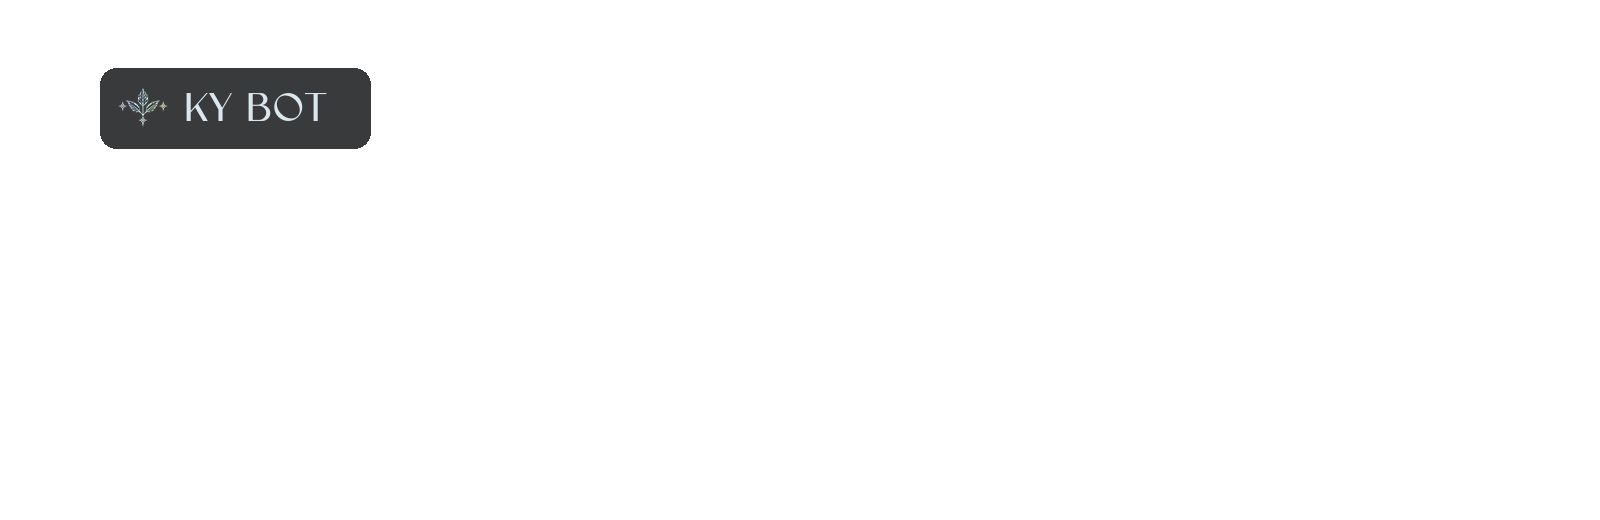
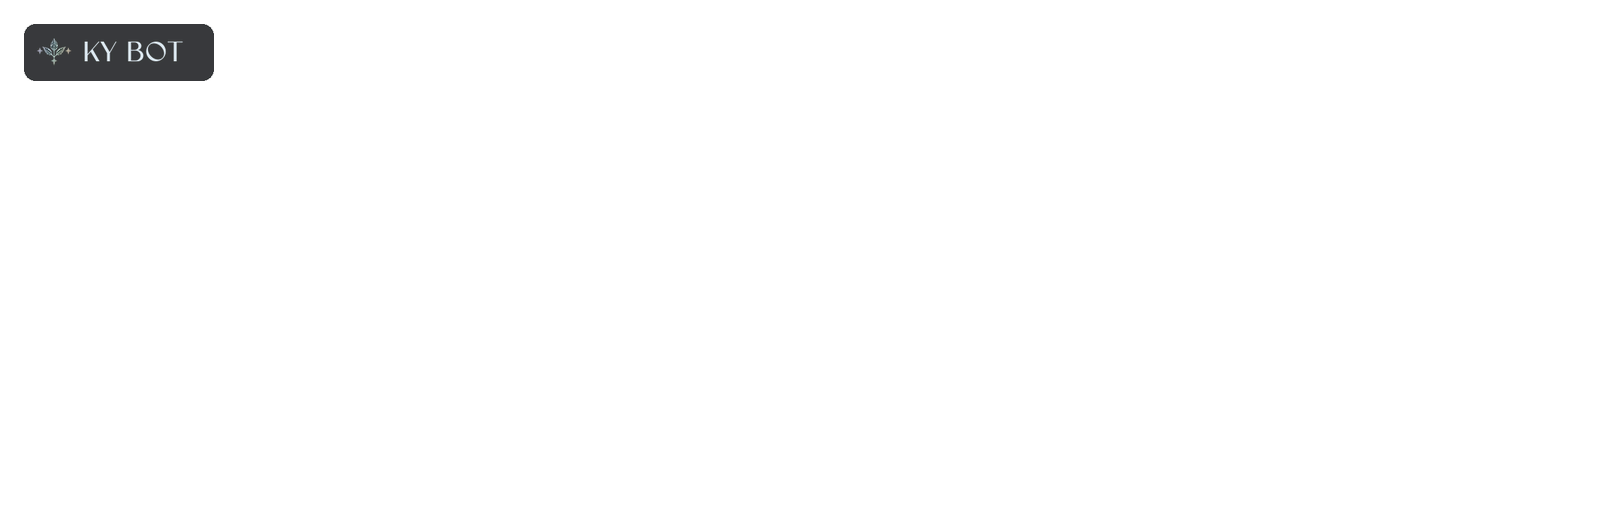
updated headers and footers

Changed region(s): [[0.0, 0.0308, 0.25, 0.3077]]

diff --git a/src/ky_bot/views/settings.py b/src/ky_bot/views/settings.py
@@ -47,12 +47,16 @@ class SettingsView(discord.ui.LayoutView):
     ) -> None:
         self.section, self.picker = section, picker
         self.clear_items()
-        panel = discord.ui.Container(accent_colour=0xB89656)
+        panel = discord.ui.Container(accent_colour=0xC4AD78)
         panel.add_item(discord.ui.MediaGallery(discord.MediaGalleryItem(
             HEADER_URL, description="KY BOT • COMMAND CENTER",
         )))
-        title = {"overview": "Server settings", "welcome": "Welcome", "logging": "Logging"}[section]
-        panel.add_item(discord.ui.TextDisplay(f"### {title}"))
+        title = {
+            "overview": "SERVER CONFIGURATION",
+            "welcome": "SERVER CONFIGURATION / WELCOME",
+            "logging": "SERVER CONFIGURATION / LOGGING",
+        }[section]
+        panel.add_item(discord.ui.TextDisplay(f"-# {title}"))
         if notice:
             panel.add_item(discord.ui.TextDisplay(notice))
 
@@ -70,19 +74,17 @@ class SettingsView(discord.ui.LayoutView):
         if section == "overview":
             status = "Enabled" if self.settings.welcome_channel_id else "Disabled"
             row(
-                f"**WELCOME** · {status}\nGreet new members with your own message.",
-                self.navigation("Configure", "welcome"),
+                f"### Welcome experience\n-# Personal greetings for new members · {status}",
+                self.navigation("Manage", "welcome"),
             )
             separator()
             row(
-                "**LOGGING** · Coming soon\nChoose where future moderation logs will go.",
-                self.navigation("Configure", "logging"),
+                "### Server activity\n-# Moderation logs · Coming soon",
+                self.navigation("Manage", "logging"),
             )
         elif section == "welcome":
-            panel.add_item(discord.ui.TextDisplay("Customize how new members are welcomed."))
-            separator()
             row(
-                f"**WELCOME CHANNEL**\n{channel(self.settings.welcome_channel_id)}",
+                f"### Destination\n{channel(self.settings.welcome_channel_id)}",
                 self.navigation("Choose channel", section, picker=True),
             )
             if picker:
@@ -97,7 +99,7 @@ class SettingsView(discord.ui.LayoutView):
             # Escape user-authored Markdown in the configuration display only.
             text = discord.utils.escape_markdown(self.settings.welcome_message)
             self.edit_welcome = self.button("Edit message", self.open_welcome_editor)
-            row(f"**WELCOME MESSAGE**\n{text}", self.edit_welcome)
+            row(f"### Welcome message\n{text}", self.edit_welcome)
             panel.add_item(discord.ui.TextDisplay(
                 "-# Use {member} to mention the new member and {server} for the server name."
             ))
@@ -105,18 +107,18 @@ class SettingsView(discord.ui.LayoutView):
             self.disable_welcome = self.button("Disable", self.turn_off_welcomes)
             self.disable_welcome.disabled = self.settings.welcome_channel_id is None
             row(
-                "**WELCOME DELIVERY**\n"
+                "### Delivery\n-# "
                 + ("Enabled — sent when someone joins." if self.settings.welcome_channel_id
                    else "Disabled — choose a channel to enable."),
                 self.disable_welcome,
             )
         else:
             panel.add_item(discord.ui.TextDisplay(
-                "Prepare a channel for future moderation logs. Logging is not active yet."
+                "-# Coming soon · Save a destination for future moderation logs."
             ))
             separator()
             row(
-                f"**LOG CHANNEL**\n{channel(self.settings.log_channel_id)}",
+                f"### Destination\n{channel(self.settings.log_channel_id)}",
                 self.navigation("Choose channel", section, picker=True),
             )
             if picker:
@@ -129,7 +131,7 @@ class SettingsView(discord.ui.LayoutView):
             separator()
             self.clear_channel = self.button("Clear channel", self.clear_log_channel)
             self.clear_channel.disabled = self.settings.log_channel_id is None
-            row("**SAVED CHANNEL**\nRemove the saved logging destination.", self.clear_channel)
+            row("### Saved destination\n-# Remove the selected channel.", self.clear_channel)
 
         separator()
         controls = discord.ui.ActionRow()
@@ -137,13 +139,13 @@ class SettingsView(discord.ui.LayoutView):
             controls.add_item(self.navigation("Back", "overview"))
         controls.add_item(self.button("Refresh", self.reload_settings))
         controls.add_item(self.button("Close", self.close_menu))
-        panel.add_item(controls)
         panel.add_item(discord.ui.TextDisplay(
-            "-# Administrators only · Changes save automatically · Expires after 3 minutes"
+            "-# Private admin controls · Saved automatically · 3-minute session"
         ))
         panel.add_item(discord.ui.MediaGallery(discord.MediaGalleryItem(
             "attachment://ky_settings_footer.png", description="KY BOT floral wreath footer",
         )))
+        panel.add_item(controls)
         self.add_item(panel)
 
     async def interaction_check(self, interaction: discord.Interaction) -> bool:

diff --git a/tools/build_headers.py b/tools/build_headers.py
@@ -54,10 +54,12 @@ def main():
         text.putalpha(lettering)
         brand.alpha_composite(text, (184, 108 - lettering.height // 2))
         brand.save(PACKAGE / f"{style}_brand.png")
-        brand.save(OUTPUT / "layers" / f"ky_header_{style}_brand.png")
+        overlay(style, framed=False).save(OUTPUT / "layers" / f"ky_header_{style}_brand.png")
         for framed in (True, False):
             name = f"ky_header_{style}_{'framed' if framed else 'borderless'}_template.png"
             overlay(style, framed=framed).save(OUTPUT / "templates" / name)
+            compact_name = name.replace("_template.png", "_compact_template.png")
+            overlay(style, framed=framed, height=280).save(OUTPUT / "templates" / compact_name)
     for design, finish in FINISHES.items():
         bg = (BASE / "masters/approved-materials" / f"{design}_background.png").read_bytes()
         for framed in (True, False):
@@ -65,28 +67,36 @@ def main():
             name = f"ky_header_{design}{'' if framed else '_borderless'}.png"
             (OUTPUT / "designs" / name).write_bytes(content)
             (PACKAGE / name).write_bytes(content)
+            compact = render_header(bg, finish, framed=framed, height=280)
+            compact_name = name.replace(".png", "_compact.png")
+            (OUTPUT / "designs" / compact_name).write_bytes(compact)
+            (PACKAGE / compact_name).write_bytes(compact)
     manifest = {
         "canvas": list(SIZE),
         "brand": "KY BOT",
         "slogan": None,
         "brand_position": "Top left; icon before KY BOT",
-        "brand_bounds": {"framed": [72, 68, 343, 149], "borderless": [24, 24, 295, 105]},
+        "brand_bounds": {"framed": [72, 68, 262, 125], "borderless": [24, 24, 214, 81]},
+        "brand_plate": "Keep the pale plate for dark silver; dark plate for gold and silver neon",
         "brand_font": "Vonca-Medium.otf",
         "title_font": "Vonca-Bold.otf",
-        "title_size": {"default": 108, "minimum": 48, "maximum_width": 1280},
+        "title_size": {"default": 108, "minimum": 40, "maximum_width": 1280},
+        "height_range": [240, 800],
+        "compact_height": 280,
         "designs": FINISHES,
         "styles": list(STYLES),
         "templates": ["framed", "borderless"],
         "background": "User supplied; cover crop with configurable focal point",
         "layers": ["background", "optional_frame", "top_left_brand"],
         "title_treatment": (
-            "Centered VONCA Bold heading with a thin rule above and below; no title means no rules"
+            "Horizontally and vertically centered VONCA Bold with matching metallic finish "
+            "and a thin rule above and below; no title means no rules"
         ),
         "font_binaries_included": False,
     }
     (OUTPUT / "manifest.json").write_text(json.dumps(manifest, indent=2) + "\n")
 
-    print("Built five header designs, matching borderless versions and six slogan-free templates.")
+    print("Built standard and compact versions of five designs and six reusable templates.")
 
 
 if __name__ == "__main__":

diff --git a/tests/test_headers.py b/tests/test_headers.py
@@ -26,7 +26,7 @@ def test_uploaded_background_and_corner_brand_are_preserved(style, framed):
     assert image.getpixel((0, 0))[3] == 0
     assert image.getpixel((800, 260)) == (255, 0, 0, 255)
     assert image.getpixel((800, 440)) == (255, 0, 0, 255)
-    brand_area = (72, 68, 343, 149) if framed else (24, 24, 295, 105)
+    brand_area = (72, 68, 262, 125) if framed else (24, 24, 214, 81)
     assert overlay(style, framed=framed).crop(brand_area).getbbox() is not None
     if not framed:
         assert overlay(style, framed=False).getbbox() == brand_area
@@ -35,9 +35,10 @@ def test_uploaded_background_and_corner_brand_are_preserved(style, framed):
 
 @pytest.mark.parametrize("name", DESIGNS)
 @pytest.mark.parametrize("framed", (True, False))
-def test_all_presets_are_available_with_and_without_frame(name, framed):
-    image = Image.open(io.BytesIO(design_file(name, framed=framed)))
-    assert image.size == SIZE
+@pytest.mark.parametrize("compact", (True, False))
+def test_all_presets_are_available_with_and_without_frame(name, framed, compact):
+    image = Image.open(io.BytesIO(design_file(name, framed=framed, compact=compact)))
+    assert image.size == (1600, 280 if compact else 520)
 
 
 def test_custom_crop_and_invalid_backgrounds():
@@ -67,9 +68,10 @@ def test_large_bold_title_has_two_rules_and_no_clipping(style):
     untitled = Image.open(io.BytesIO(render_header(base, style)))
     mask = text_mask("COMMAND CENTER", role="display", size=108, min_size=48, max_width=1280)
     assert mask.height > 50
-    assert 252 + mask.height + 28 < SIZE[1] - 24
+    y = (SIZE[1] - mask.height) // 2
+    assert y + mask.height + 28 < SIZE[1] - 24
     left = (SIZE[0] - mask.width) // 2
-    top, bottom = 224, 252 + mask.height + 28
+    top, bottom = y - 28, y + mask.height + 28
     rule_x = left + 40
     assert titled.getpixel((rule_x, top)) == titled.getpixel((rule_x, bottom))
     assert titled.getpixel((rule_x, top)) != untitled.getpixel((rule_x, top))
@@ -122,7 +124,7 @@ def test_custom_height_preserves_brand_and_transparent_corners(height, framed):
     assert image.size == (1600, height)
     assert image.getpixel((0, 0))[3] == 0
     assert image.getpixel((1599, height - 1))[3] == 0
-    brand_area = (72, 68, 343, 149) if framed else (24, 24, 295, 105)
+    brand_area = (72, 68, 262, 125) if framed else (24, 24, 214, 81)
     original = overlay("gold", framed=framed).crop(brand_area)
     adjusted = overlay("gold", framed=framed, height=height).crop(brand_area)
     assert original.tobytes() == adjusted.tobytes()
@@ -153,5 +155,5 @@ def test_title_fits_custom_height(height, framed):
         "COMMAND CENTER", role="display", size=min(108, round(height * 108 / 520)),
         min_size=40, max_width=1280,
     )
-    y = max(155 if framed else 120, (height - mask.height) // 2)
+    y = (height - mask.height) // 2
     assert y + mask.height + min(28, round(height * 28 / 520)) < height - 24

diff --git a/src/ky_bot/services/headers.py b/src/ky_bot/services/headers.py
@@ -6,7 +6,7 @@ from pathlib import Path
 
 from PIL import Image, ImageChops, ImageDraw, ImageFilter, ImageOps
 
-from ky_bot.services.footers import FooterError, read_upload
+from ky_bot.services.footers import FooterError, metal, read_upload
 from ky_bot.services.typography import TypographyError, text_mask
 
 SIZE = (1600, 520)
@@ -44,11 +44,13 @@ def overlay(style: str, *, framed: bool = True, height: int = SIZE[1]) -> Image.
             )
             resized.alpha_composite(frame.crop((0, 410, SIZE[0], 520)), (0, height - 110))
             frame = resized
-        frame.alpha_composite(result.crop((100, 68, 371, 149)), (72, 68))
+        brand = result.crop((100, 68, 371, 149)).resize((190, 57), Image.Resampling.LANCZOS)
+        frame.alpha_composite(brand, (72, 68))
         return frame
     # Borderless layouts can place the mark closer to the actual image corner.
     corner = Image.new("RGBA", (SIZE[0], height))
-    corner.alpha_composite(result.crop((100, 68, 371, 149)), (24, 24))
+    brand = result.crop((100, 68, 371, 149)).resize((190, 57), Image.Resampling.LANCZOS)
+    corner.alpha_composite(brand, (24, 24))
     return corner
 
 
@@ -94,7 +96,7 @@ def render_header(
             raise FooterError(str(exc)) from None
         # Center the title between two fine rules, following the KY BOT logo treatment.
         x = (SIZE[0] - mask.width) // 2
-        y = 252 if height == 520 else max(155 if framed else 120, (height - mask.height) // 2)
+        y = (height - mask.height) // 2
         rule_width = max(240, mask.width)
         rule_left = (SIZE[0] - rule_width) // 2
         gap = min(28, round(height * 28 / 520))
@@ -114,19 +116,20 @@ def render_header(
         pen = ImageDraw.Draw(image)
         for rule_y in (top, bottom):
             pen.line((rule_left, rule_y, rule_left + rule_width, rule_y), fill=colour, width=3)
-        text = Image.new("RGBA", mask.size, colour)
-        text.putalpha(mask)
+        text = metal(mask, style)
         image.alpha_composite(text, (x, y))
     output = io.BytesIO()
     image.save(output, format="PNG")
     return output.getvalue()
 
 
-def design_file(name: str, *, framed: bool = True) -> bytes:
+def design_file(name: str, *, framed: bool = True, compact: bool = False) -> bytes:
     """Reusable preset for embedding with attachment://ky_header.png."""
     if name not in DESIGNS:
         raise FooterError("Choose a design from the KY BOT header collection.")
     suffix = "" if framed else "_borderless"
+    if compact:
+        suffix += "_compact"
     return (
         files("ky_bot").joinpath("assets", "header", f"ky_header_{name}{suffix}.png").read_bytes()
     )

diff --git a/tools/build_command_center_header.py b/tools/build_command_center_header.py
@@ -8,6 +8,7 @@ from PIL import Image, ImageDraw, ImageOps
 ROOT = Path(__file__).resolve().parents[1]
 sys.path.insert(0, str(ROOT / "src"))
 
+from ky_bot.services.footers import metal  # noqa: E402
 from ky_bot.services.headers import background_mask, overlay  # noqa: E402
 from ky_bot.services.typography import text_mask  # noqa: E402
 
@@ -22,13 +23,10 @@ def build_header(*, framed: bool = False) -> Image.Image:
     image.alpha_composite(Image.new("RGBA", image.size, (255, 255, 255, 32)))
     if framed:
         image.putalpha(background_mask(framed=True, height=280))
-        image.alpha_composite(overlay("dark_silver", framed=True, height=280))
-    else:
-        image.alpha_composite(overlay("dark_silver", framed=False).crop((0, 0, 1600, 110)))
+    image.alpha_composite(overlay("dark_silver", framed=framed, height=280))
     mask = text_mask("COMMAND CENTER", role="display", size=80, max_width=1280)
-    x, y = (1600 - mask.width) // 2, 140
-    title = Image.new("RGBA", mask.size, "#292724")
-    title.putalpha(mask)
+    x, y = (image.width - mask.width) // 2, (image.height - mask.height) // 2
+    title = metal(mask, "dark_silver")
     image.alpha_composite(title, (x, y))
     draw = ImageDraw.Draw(image)
     for line_y in (y - 18, y + mask.height + 18):
@@ -37,7 +35,15 @@ def build_header(*, framed: bool = False) -> Image.Image:
 
 
 def main() -> None:
-    build_header(framed=True).save(ROOT / "src/ky_bot/assets/header/ky_header_command_center.png")
+    header = build_header(framed=True)
+    header = header.crop(header.getchannel("A").getbbox())
+    header = ImageOps.contain(header, (1600, 280), Image.Resampling.LANCZOS)
+    header.save(ROOT / "src/ky_bot/assets/header/ky_header_command_center.png")
+    footer = Image.open(
+        ROOT / "assets/branding/footers/standardized/ky_footer_floral_wreath_centered_framed.png"
+    ).convert("RGBA")
+    footer = footer.crop(footer.getchannel("A").getbbox())
+    footer.save(ROOT / "src/ky_bot/assets/footer/ky_footer_floral_wreath_centered_framed.png")
 
 
 if __name__ == "__main__":

diff --git a/assets/branding/previews/render_settings_label.py b/assets/branding/previews/render_settings_label.py
@@ -1,0 +1,21 @@
+from pathlib import Path
+from PIL import Image
+from ky_bot.services.typography import text_mask
+root = Path.cwd()
+out = root / 'assets/branding/previews'
+out.mkdir(exist_ok=True)
+mask = text_mask('SERVER SETTINGS', role='display', size=44, min_size=44, max_width=1500)
+lettering = Image.new('RGBA', mask.size, '#D8BB78')
+lettering.putalpha(mask)
+label = Image.new('RGBA', (1600, 80))
+label.alpha_composite(lettering, (0, (80-mask.height)//2))
+label.save(out / 'server_settings_vonca_gold.png')
+preview = Image.new('RGBA', (1680, 650), '#2b2d38')
+header = Image.open(root / 'src/ky_bot/assets/header/ky_header_command_center.png').convert('RGBA')
+header = header.resize((1600, round(header.height * 1600 / header.width)))
+preview.alpha_composite(header, (40, 24))
+preview.alpha_composite(label, (40, 310))
+footer = Image.open(root / 'src/ky_bot/assets/footer/ky_footer_floral_wreath_centered_framed.png')
+footer = footer.convert('RGBA').resize((1600, round(footer.height * 1600 / footer.width)))
+preview.alpha_composite(footer, (40, 420))
+preview.save(out / 'server_settings_vonca_gold_preview.png')

diff --git a/README.md b/README.md
@@ -7,7 +7,7 @@ KY BOT is a sophisticated, all-in-one Discord bot created around simplicity, ver
 
 Administrators can use `/settings` to open a private Command Center panel. The branded
 **COMMAND CENTER** header appears at the top, with Welcome and Logging rows beneath it.
-Each row has an inline **Configure** button beside its description. **Choose channel** opens
+Each row has an inline **Manage** button beside its description. **Choose channel** opens
 Discord's channel picker;
 no channel IDs are needed. Each server saves its own configuration across restarts.
 
@@ -287,6 +287,11 @@ All headers are slogan-free. The small icon and KY BOT mark sit at the top left,
 inset on framed headers and closer to the corner on borderless headers. Optional titles use
 large VONCA Bold lettering with a thin matching line above and below.
 
+All designs and reusable templates share the smaller 190 × 57 corner logo and its readability
+plate. Optional titles are centered horizontally and vertically and use the same metallic
+finish as the border. Compact 1600 × 280 exports accompany the standard 1600 × 520 assets;
+compact filenames include `_compact`. The floral wreath Command Center keeps its pale logo plate.
+
 Final designs are in `assets/branding/headers/designs/`. Reusable transparent PNG templates
 are in `assets/branding/headers/templates/`, with separate frame and brand source layers in
 `assets/branding/headers/layers/`. The manifest documents the layout. No preview sheets or
@@ -311,6 +316,7 @@ licensed `Vonca-Bold.otf` or `Vonca-Bold.ttf` in the private local font director
 omit `framed=False` for the framed preset. Attach those bytes as a Discord PNG file and
 reference the attachment from the embed image. `render_header` supports custom backgrounds
 and titles. Runtime PNGs are included in the Python package and Docker image.
+Pass `compact=True` to `design_file` for the compact preset.
 
 Regenerate final headers with `python tools/build_headers.py` when licensed fonts are
 available locally. This builder uses approved footer source assets and exports final
